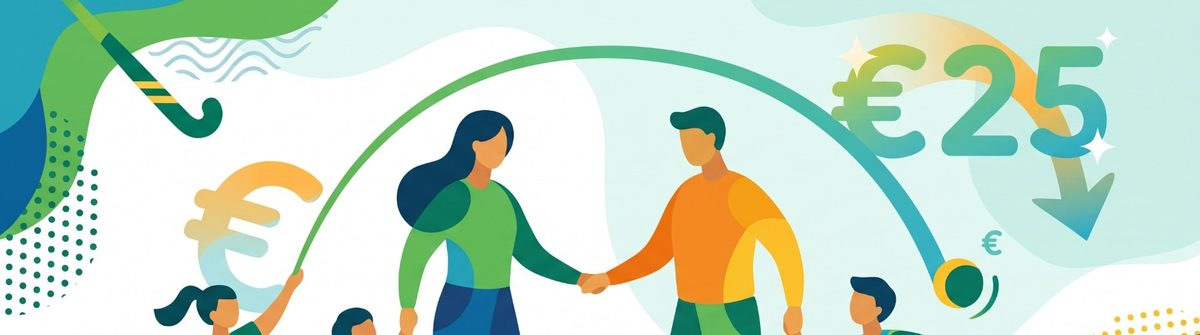
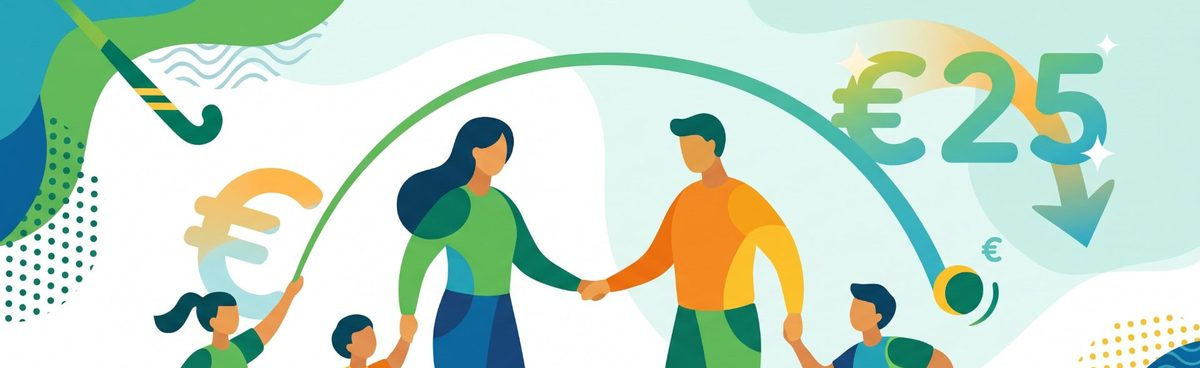
Changes

diff --git a/src/pages/lidmaatschap/Info.tsx b/src/pages/lidmaatschap/Info.tsx
@@ -365,7 +365,7 @@ const MembershipInfo = () => {
                         src={discount.media.src}
                         alt={discount.media.alt}
                         loading="lazy"
-                        className={`aspect-[1200/335] w-full ${
+                        className={`aspect-[1200/368] w-full ${
                           discount.media.fit === "contain" ? "object-contain p-3" : "object-cover"
                         }`}
                       />
@@ -376,7 +376,7 @@ const MembershipInfo = () => {
                         src={discount.media.src}
                         alt={discount.media.alt}
                         loading="lazy"
-                        className={`aspect-[1200/335] w-full ${
+                        className={`aspect-[1200/368] w-full ${
                           discount.media.fit === "contain" ? "object-contain p-3" : "object-cover"
                         }`}
                       />
